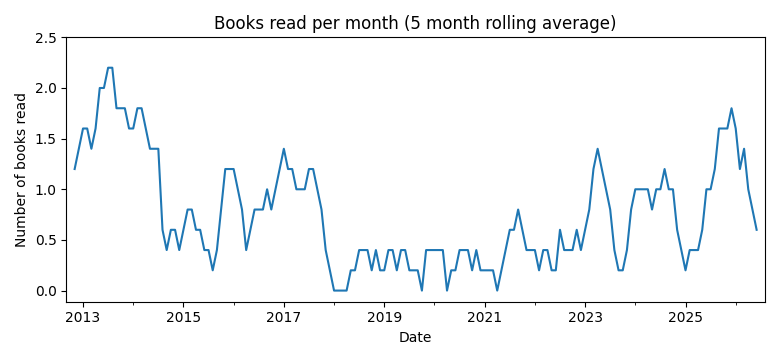
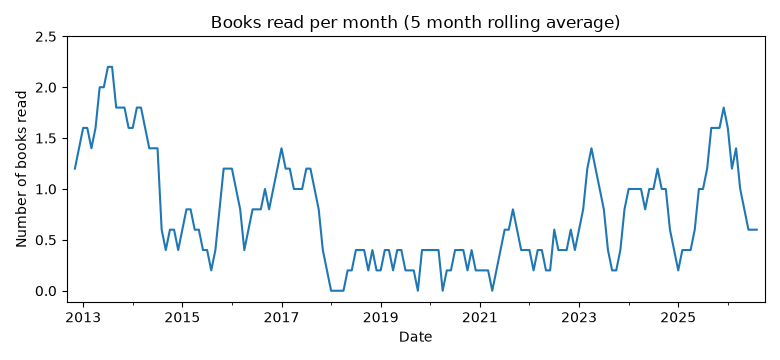
Excession

diff --git a/README.md b/README.md
@@ -3,14 +3,17 @@
 I started this log on October 30th, 2012. I list all books I read.  
 
 ### Statistics
-Total number of books read: 129  
-Books per month: 0.76 (2012/10 to 2026/10)
+Total number of books read: 130  
+Books per month: 0.77 (2012/10 to 2026/10)
 
 ![Books recorded by year](book_recorded.png)
 ![Books read per month](book_read.png)
 ![Days between books (distribution)](book_gaps.png)
 
 ### List of books
+*[Excession](https://openlibrary.org/works/OL8368435W)*, Iain M. Banks  
+Finished: 2026.10.11
+
 *[The no asshole rule](https://openlibrary.org/works/OL8135253W)*, Robert Sutton  
 Finished: 2026.10.05
 
